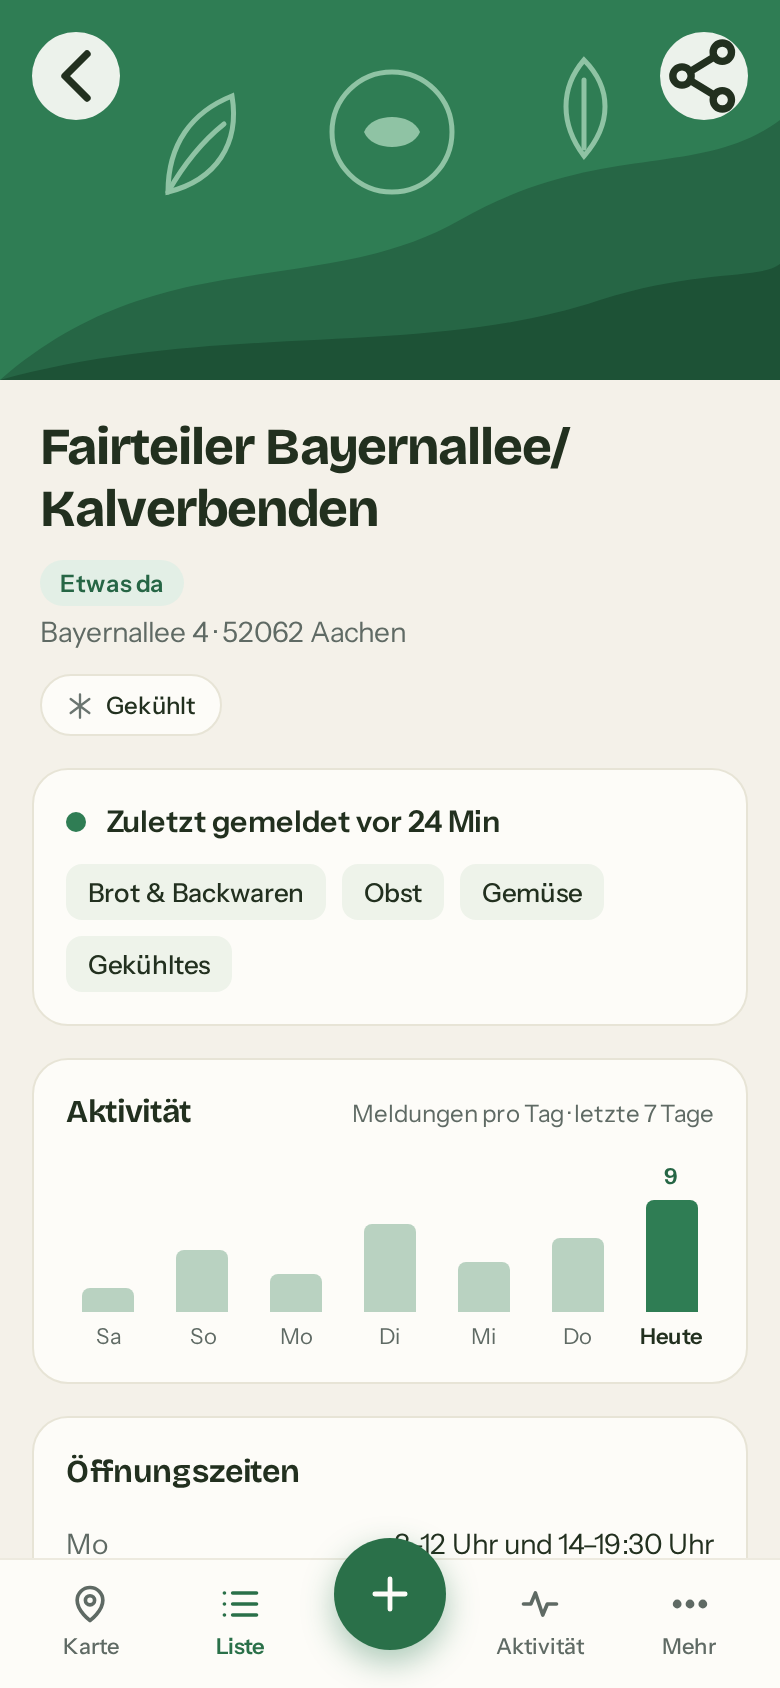
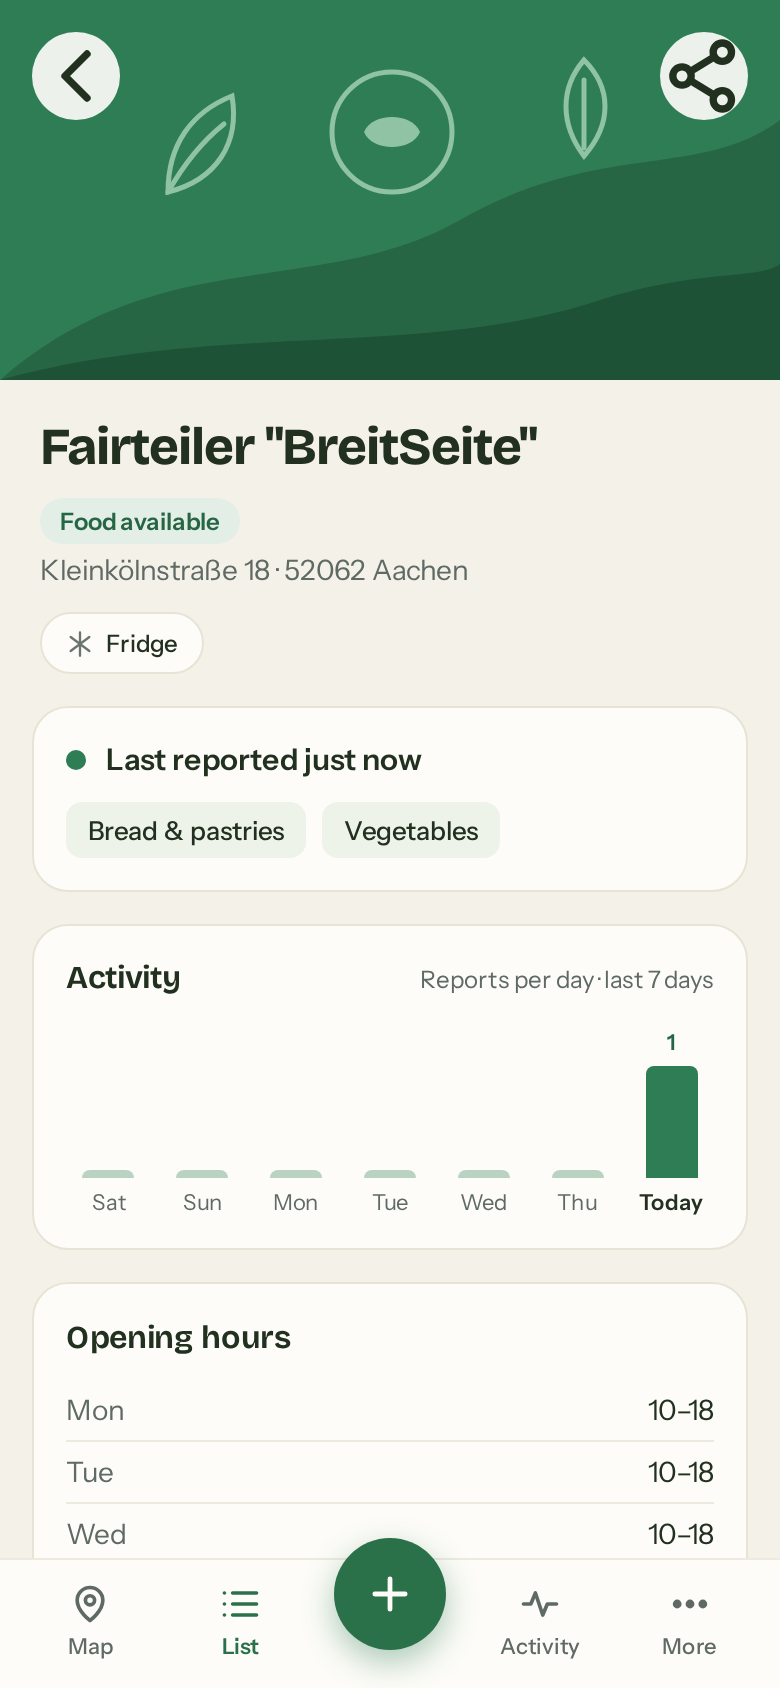
Refresh README screenshots: real map data, English UI, uniform size
All four captured at 390x844 @2x (780x1688) against the real backend
seed with sample reports, real OpenStreetMap tiles and English UI;
table headers translated and alt texts sharpened.

Claude-Session: https://claude.ai/code/session_01D582R8mobJ9rJxcFetb6FE

diff --git a/README.md b/README.md
@@ -29,9 +29,11 @@ seconds, no account, no tracking — built to **complement
 
 ## Screenshots
 
-| Karte | Liste | Detail | Statistik |
+*English UI shown; the app ships in nine languages. Sample reports for illustration.*
+
+| Map | List | Detail | Transparency |
 |:---:|:---:|:---:|:---:|
-| <img src="docs/screenshots/karte.png" width="200" alt="Map with status pins"> | <img src="docs/screenshots/liste.png" width="200" alt="List with activity charts"> | <img src="docs/screenshots/detail.png" width="200" alt="Detail with live status"> | <img src="docs/screenshots/statistik.png" width="200" alt="Transparent usage stats"> |
+| <img src="docs/screenshots/karte.png" width="200" alt="Map of Aachen with status-colored Fairteiler pins"> | <img src="docs/screenshots/liste.png" width="200" alt="List of Fairteiler with status and activity charts"> | <img src="docs/screenshots/detail.png" width="200" alt="Fairteiler detail with live status, activity and opening hours"> | <img src="docs/screenshots/statistik.png" width="200" alt="Transparent anonymous usage statistics"> |
 
 ## Features
 
